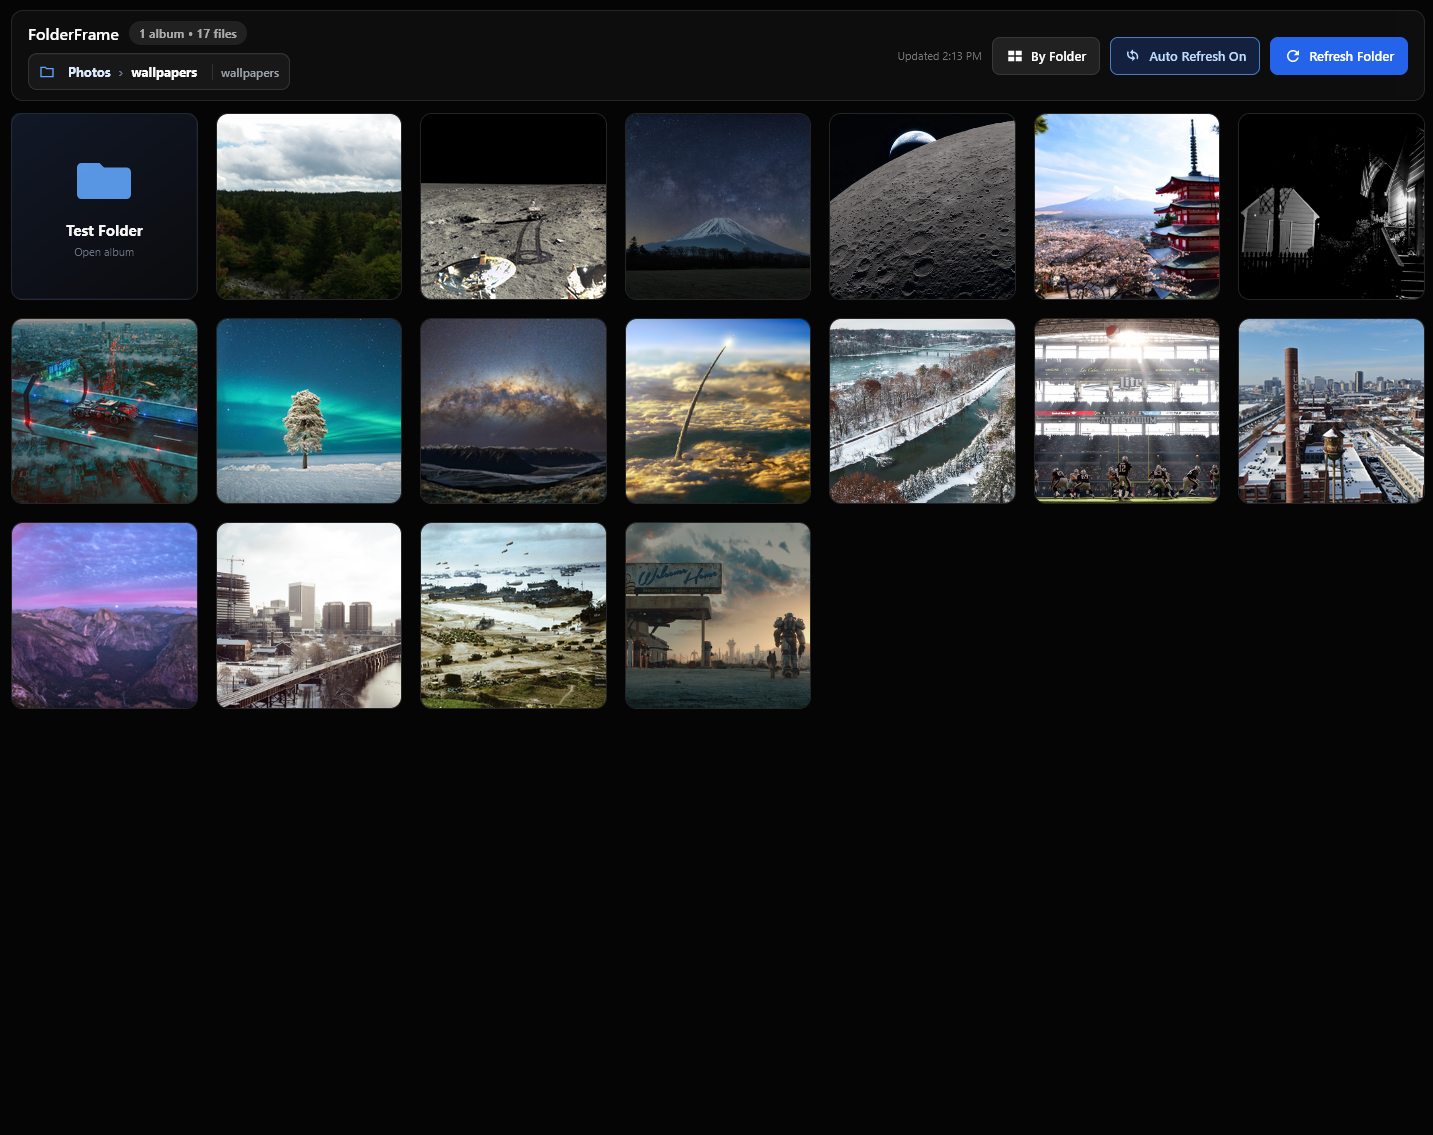
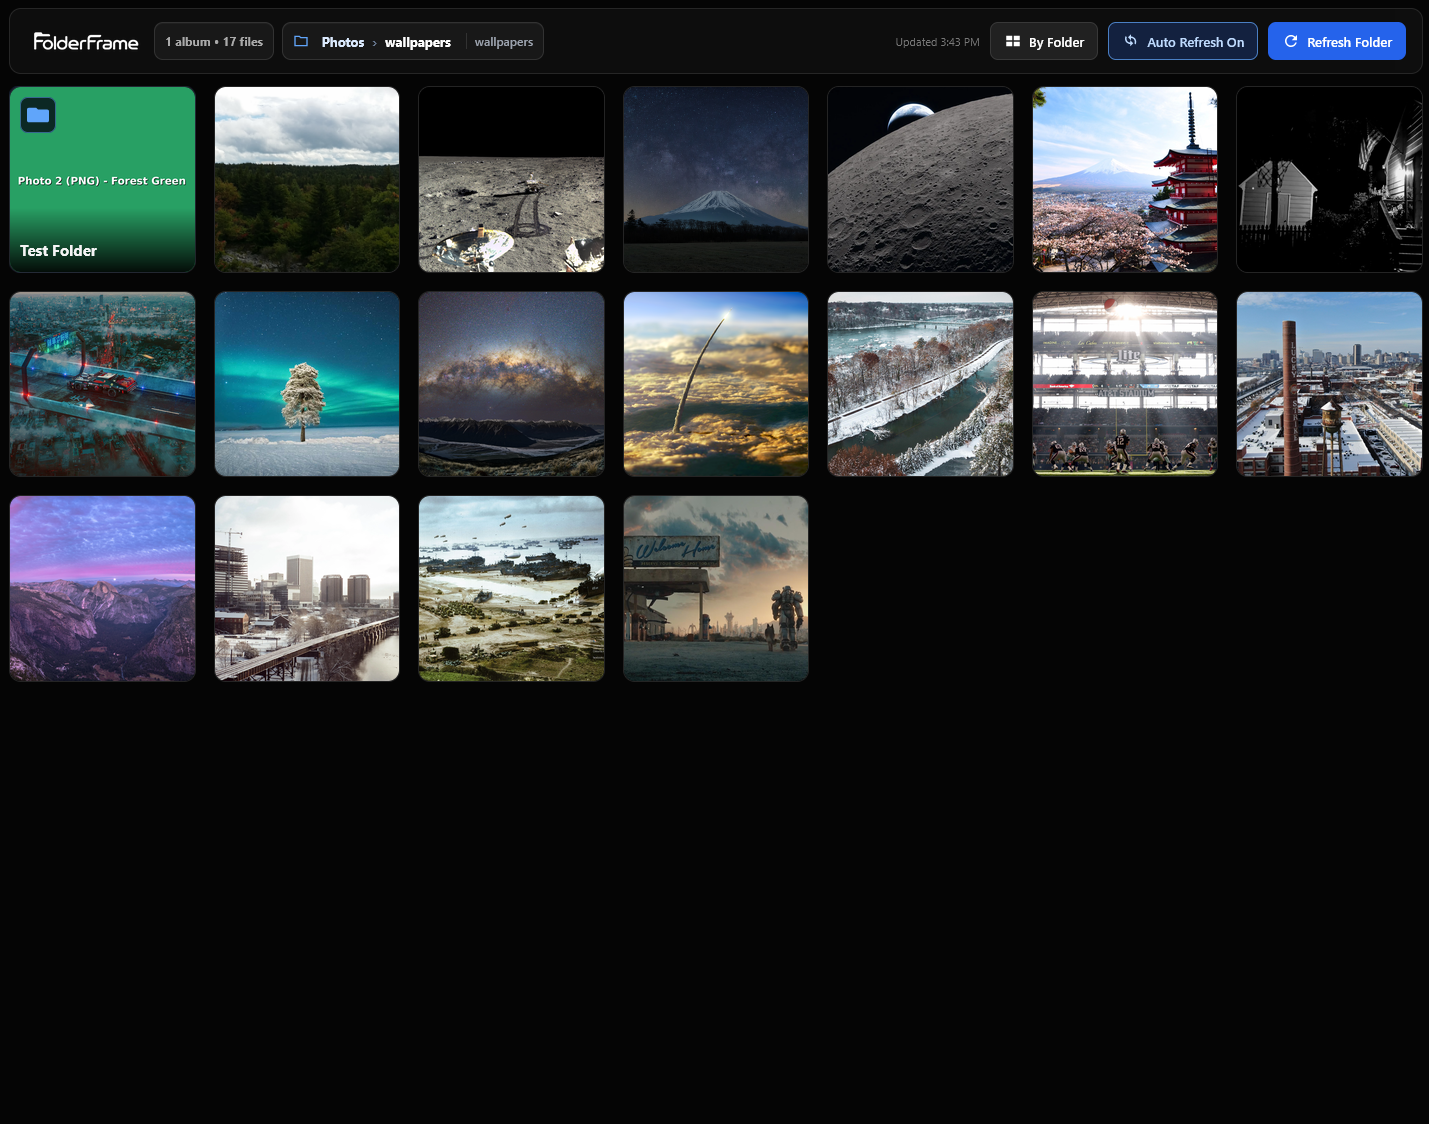
Add album cover previews and compact gallery navigation

diff --git a/app.js b/app.js
@@ -10,6 +10,80 @@ let rememberPreferences = true;
 let controlsEnabled = true;
 let swipeStart = null;
 let gridReturn = null;
+let albumPreviewSession = null;
+
+function stopAlbumPreviews() {
+    if (!albumPreviewSession) return;
+    albumPreviewSession.controller.abort();
+    albumPreviewSession.observer?.disconnect();
+    albumPreviewSession.queue.length = 0;
+    albumPreviewSession = null;
+}
+
+function startAlbumPreviews() {
+    stopAlbumPreviews();
+    const session = { controller: new AbortController(), observer: null, queue: [], active: 0 };
+    albumPreviewSession = session;
+    const pump = () => {
+        if (session.controller.signal.aborted) return;
+        while (session.active < 3 && session.queue.length) {
+            const { item, folder } = session.queue.shift();
+            session.active++;
+            loadAlbumPreview(item, folder, session.controller.signal)
+                .finally(() => { session.active--; pump(); });
+        }
+    };
+    const enqueue = item => { session.queue.push({ item, folder: item.dataset.albumFolder }); pump(); };
+    if ('IntersectionObserver' in window) {
+        session.observer = new IntersectionObserver(entries => {
+            for (const entry of entries) if (entry.isIntersecting) {
+                session.observer.unobserve(entry.target);
+                enqueue(entry.target);
+            }
+        }, { root: gridViewContainer, rootMargin: '300px' });
+    }
+    return item => session.observer ? session.observer.observe(item) : enqueue(item);
+}
+
+async function loadAlbumPreview(item, folder, signal) {
+    const controller = new AbortController();
+    const cancel = () => controller.abort();
+    signal.addEventListener('abort', cancel, { once: true });
+    const timeout = setTimeout(cancel, 12000);
+    let preview;
+    const fallback = () => {
+        if (preview) preview.hidden = true;
+        item.classList.remove('has-album-cover');
+    };
+    try {
+        if (signal.aborted) return;
+        const listing = await scanDirectory(folder, { signal: controller.signal });
+        // scanDirectory already sorts naturally by filename. Do not crawl descendants.
+        const file = listing.filePaths.find(isImageFile);
+        if (!file || signal.aborted || controller.signal.aborted) return;
+        const url = isHeicFile(file) ? await getSpecialImageURL(file) : file;
+        if (signal.aborted || controller.signal.aborted) return;
+        preview = document.createElement('img');
+        preview.className = 'album-cover';
+        preview.alt = '';
+        preview.hidden = true;
+        preview.decoding = 'async';
+        preview.onload = () => {
+            if (signal.aborted) return;
+            preview.hidden = false;
+            item.classList.add('has-album-cover');
+        };
+        preview.onerror = fallback;
+        item.appendChild(preview);
+        preview.src = url;
+    } catch (error) {
+        // An unavailable preview never prevents opening the album.
+        fallback();
+    } finally {
+        clearTimeout(timeout);
+        signal.removeEventListener('abort', cancel);
+    }
+}
 const AUTO_REFRESH_MS = 30000;
 
 let mediaFiles = [];
@@ -280,9 +354,9 @@ async function getSpecialImageURL(filepath) {
     throw new Error('Unknown or corrupt image format');
 }
 
-async function scanDirectory(folder = currentFolder) {
+async function scanDirectory(folder = currentFolder, options = {}) {
     const url = currentDirectoryUrl(folder);
-    const response = await fetch(url, { cache: 'no-store' });
+    const response = await fetch(url, { cache: 'no-store', ...options });
     if (!response.ok) throw new Error(`Could not fetch directory (${response.status})`);
     const html = await response.text();
     const doc = new DOMParser().parseFromString(html, 'text/html');
@@ -465,6 +539,7 @@ async function navigateToFolder(folder) {
 }
 
 function renderGridView() {
+    stopAlbumPreviews();
     const returnPosition = !isGridViewActive && gridReturn &&
         gridReturn.folder === currentFolder && gridReturn.view === galleryViewMode ? gridReturn : null;
     let returnTile = null;
@@ -492,18 +567,23 @@ function renderGridView() {
         : `${albums ? `${albums} album${albums === 1 ? '' : 's'} • ` : ''}${total} file${total === 1 ? '' : 's'}`;
 
     // Album cards first when browsing by folder.
+    const observeAlbum = galleryViewMode === 'folders' ? startAlbumPreviews() : null;
     if (galleryViewMode === 'folders') subfolders.forEach(folder => {
         const item = document.createElement('button');
         item.className = 'grid-item album-card';
         item.type = 'button';
+        const albumFolder = currentFolder ? `${currentFolder}/${folder}` : folder;
+        item.dataset.albumFolder = albumFolder;
+        item.setAttribute('aria-label', `Open album ${folder}`);
         item.innerHTML = `
             <div class="album-icon" aria-hidden="true">
                 <svg viewBox="0 0 24 24" width="54" height="54"><path fill="currentColor" d="M10 4H2c-1.1 0-2 .9-2 2v12c0 1.1.9 2 2 2h20c1.1 0 2-.9 2-2V8c0-1.1-.9-2-2-2h-10l-2-2z"/></svg>
             </div>
             <div class="album-name">${escapeHtml(folder)}</div>
             <div class="album-subtitle">Open album</div>`;
-        item.addEventListener('click', () => navigateToFolder(currentFolder ? `${currentFolder}/${folder}` : folder));
+        item.addEventListener('click', () => navigateToFolder(albumFolder));
         thumbnailGrid.appendChild(item);
+        observeAlbum(item);
     });
 
     const observer = 'IntersectionObserver' in window ? new IntersectionObserver(entries => {
@@ -613,6 +693,7 @@ function renderGridView() {
 function enterFullScreenViewer(index) {
     if (!mediaFiles.length) return;
     const openingViewer = isGridViewActive;
+    if (openingViewer) stopAlbumPreviews();
     if (openingViewer && mediaFiles[index]) gridReturn = {
         folder: currentFolder, view: galleryViewMode,
         file: mediaFiles[index], scrollTop: gridViewContainer.scrollTop || 0
@@ -816,6 +897,7 @@ function handleWheel(e) {
 }
 
 function setupEventListeners() {
+    $('btn-gallery-home').addEventListener('click', () => navigateToFolder(''));
     $('select-source').addEventListener('change', event => {
         const url = new URL(location.href);
         url.searchParams.set('source', event.target.value);

diff --git a/styles.css b/styles.css
@@ -5,6 +5,8 @@
 #config-notice { position: fixed; bottom: 12px; left: 12px; right: 12px; z-index: 110; padding: 10px 14px; border: 1px solid #b7791f; border-radius: 8px; background: #30230b; color: #fff3cd; font-size: 13px; max-height: 25vh; overflow: auto; }
 :root { color-scheme: dark; }
 .brand-logo { display:block; width:120px; height:40px; object-fit:contain; flex:0 0 auto; }
+.brand-home { display:flex; align-items:center; justify-content:center; flex:0 0 auto; min-height:44px; padding:0; border:0; border-radius:8px; background:transparent; cursor:pointer; }
+.brand-home:hover { background:rgba(255,255,255,.06); }
 .hide-filenames #media-title, .hide-filenames .grid-item-caption { display:none; }
 .returned-tile { outline:3px solid #93c5fd; outline-offset:-3px; }
 .loading-note { position:absolute; bottom:15%; left:50%; transform:translateX(-50%); z-index:6; display:flex; align-items:center; gap:10px; padding:10px 14px; border-radius:20px; background:rgba(15,23,42,.9); color:#cbd5e1; font-size:13px; max-width:90%; pointer-events:none; }
@@ -57,10 +59,10 @@ button, select { font: inherit; }
 
 #grid-view-container { position:absolute; inset:0; background:#050505; z-index:5; overflow-y:auto; display:flex; flex-direction:column; }
 #grid-header { position:fixed; top:18px; left:18px; right:18px; z-index:10; display:flex; justify-content:space-between; align-items:center; gap:18px; min-height:62px; padding:10px 16px; }
-.grid-header-main { min-width:0; display:flex; flex-direction:column; gap:8px; }
+.grid-header-main { min-width:0; display:flex; flex-direction:row; flex-wrap:wrap; align-items:center; gap:8px; flex:1; }
 .grid-title-row { overflow:visible; flex-wrap:wrap; }
 
-.gallery-path-bar {
+.gallery-path-bar, #grid-count {
     display:flex;
     align-items:center;
     gap:8px;
@@ -133,6 +135,11 @@ button, select { font: inherit; }
 .album-icon { color:#60a5fa; opacity:.9; margin-bottom:8px; }
 .album-name { max-width:85%; overflow:hidden; text-overflow:ellipsis; white-space:nowrap; font-size:15px; font-weight:700; }
 .album-subtitle { color:#6b7280; font-size:11px; margin-top:4px; }
+.album-card .album-cover { position:absolute; inset:0; width:100%; height:100%; object-fit:cover; z-index:0; }
+.has-album-cover .album-icon { position:absolute; top:10px; left:10px; margin:0; padding:6px; display:flex; background:rgba(5,10,20,.8); border:1px solid rgba(96,165,250,.5); border-radius:8px; z-index:2; opacity:1; }
+.has-album-cover .album-icon svg { width:22px; height:22px; }
+.has-album-cover .album-name { position:absolute; bottom:0; left:0; right:0; max-width:100%; padding:32px 10px 12px; background:linear-gradient(transparent,rgba(0,0,0,.92)); text-align:left; z-index:1; }
+.has-album-cover .album-subtitle { display:none; }
 .heic-thumb { opacity:.15; transition:opacity .25s; }
 .heic-thumb.thumb-loaded { opacity:1; }
 .heic-fallback { position:absolute; inset:0; display:flex; align-items:center; justify-content:center; color:#555; font-size:12px; font-weight:800; letter-spacing:.08em; z-index:-1; }
@@ -232,7 +239,9 @@ button, select { font: inherit; }
     padding-bottom:max(30px, env(safe-area-inset-bottom));
 }
 .grid-header-main { max-width:100%; }
-.gallery-path-bar { min-width:0; }
+.grid-header-main .gallery-path-bar { width:auto; min-width:min(200px, 100%); max-width:100%; flex:0 1 auto; }
+#grid-count { flex:0 0 auto; min-height:38px; }
+.gallery-path-bar { min-width:0; min-height:38px; }
 .breadcrumb { flex-wrap:nowrap; overflow-x:auto; max-width:100%; }
 .crumb { flex-shrink:0; max-width:60vw; overflow:hidden; text-overflow:ellipsis; white-space:nowrap; }
 .btn svg { flex-shrink:0; }

diff --git a/index.html b/index.html
@@ -5,7 +5,7 @@
     <meta name="viewport" content="width=device-width, initial-scale=1.0, viewport-fit=cover">
     <meta name="theme-color" content="#050505">
     <title>FolderFrame</title>
-    <link rel="stylesheet" href="styles.css?v=20260827-logo">
+    <link rel="stylesheet" href="styles.css?v=20260827-album-covers">
     <script src="heic2any.min.js"></script>
 </head>
 <body>
@@ -96,14 +96,10 @@
         <div id="grid-view-container">
             <header id="grid-header" class="overlay">
                 <div class="grid-header-main">
-                    <div class="header-left grid-title-row">
+                    <button id="btn-gallery-home" class="brand-home" type="button" aria-label="Go to top-level gallery" title="Go to top-level gallery">
                         <img class="brand-logo" src="docs/images/folderframe-logo.png" alt="FolderFrame" width="120" height="40">
-                        <span id="grid-count" class="index-text">0 files</span>
-                        <div id="source-control" class="timer-control" hidden>
-                            <label for="select-source">Source:</label>
-                            <select id="select-source" class="custom-select"></select>
-                        </div>
-                    </div>
+                    </button>
+                    <span id="grid-count" class="index-text">0 files</span>
                     <div class="gallery-path-bar" aria-label="Current gallery location">
                         <span class="path-icon" aria-hidden="true">
                             <svg viewBox="0 0 24 24" width="16" height="16">
@@ -112,6 +108,10 @@
                         </span>
                         <div id="breadcrumb" class="breadcrumb" aria-label="Album path"></div>
                         <span id="grid-path" class="folder-path">Sorted by folder</span>
+                    </div>
+                    <div id="source-control" class="timer-control" hidden>
+                        <label for="select-source">Source:</label>
+                        <select id="select-source" class="custom-select"></select>
                     </div>
                 </div>
                 <div class="header-right grid-actions">
@@ -153,6 +153,6 @@
 
     <p id="config-notice" role="status" hidden></p>
     <script src="settings.js?v=20260827-browsing"></script>
-    <script src="app.js?v=20260827-browsing"></script>
+    <script src="app.js?v=20260827-album-covers"></script>
 </body>
 </html>

diff --git a/README.md b/README.md
@@ -23,11 +23,11 @@ Configure media paths and separate index/embed startup defaults in
 
 ### Full media viewer
 
-![FolderFrame full media viewer](docs/images/folderframe-viewer.png)
+![FolderFrame full media viewer with compact slideshow, Fit, Full, and TV Mode controls](docs/images/folderframe-viewer.png)
 
 ### Gallery and album view
 
-![FolderFrame gallery and album view](docs/images/folderframe-gallery.png)
+![FolderFrame grid with an album cover preview, folder badge, and compact directory header](docs/images/folderframe-gallery.png)
 
 ## Overview
 
@@ -36,7 +36,7 @@ contents of configured media directories dynamically from the web server’s
 directory listing, so there is no database, import process, or manually
 maintained media list.
 
-- **Folder-based albums:** thumbnail grid, nested albums, breadcrumbs, and recursive All Pics view.
+- **Folder-based albums:** thumbnail grid, image cover previews with folder badges, nested albums, breadcrumbs, and recursive All Pics view.
 - **Photos and videos:** JPEG, PNG, WebP, GIF, HEIC/HEIF conversion, and MP4/MOV playback (browser codec support applies).
 - **Slideshow and TV mode:** selectable intervals, Shuffle, fullscreen, automatic rescans, and automatic skipping of failed media.
 - **Responsive viewer:** compact mobile controls, pinch zoom, pan, and Fit/Original sizing.
@@ -307,6 +307,22 @@ therefore take longer to populate than JPEG-based galleries.
 GALLERY CONTROLS
 
 GRID / ALBUM VIEW
+
+The compact header places the album/file count beside the directory breadcrumb.
+Click or tap the FolderFrame logo to return to the current source's top-level
+gallery. This works in both the standalone gallery and the embedded grid.
+
+Album tiles preview the first image directly inside that folder, using the
+same natural filename order as the gallery (for example, 2.jpg before 10.jpg).
+A blue folder badge and the album name distinguish covers from individual
+photos. Empty, video-only, nested-folder-only, or failed previews keep the
+folder icon. Covers do not recursively scan descendant albums.
+
+Previews load near the visible grid, with up to three directory lookups/HEIC
+conversions at once. They use original images, not generated thumbnails.
+Use Refresh Folder to reselect covers after changing files inside albums;
+unchanged background refreshes keep existing tiles. There is no cover.jpg
+override yet.
 
 -   The site opens in the thumbnail grid by default; configured autoplay opens the viewer.
 -   Click a photo or video to open the full viewer.

diff --git a/TODO.md b/TODO.md
@@ -22,9 +22,10 @@ manual checks; automated tests do not verify browser layout or codecs.
 - [ ] **Docker packaging and Unraid templates** — Build a Docker image and an Unraid container template for easy deployment. Include configurable media/config mounts, port mapping, a web server with directory listings, and setup/update instructions. Keep ordinary static-server hosting supported.
 
 - [x] **Swipe between photos** — Implemented horizontal swipes for fitted, unzoomed/unpanned photos. Zoomed photos still pan; short/vertical/cancelled gestures do not navigate. Local only; phone verification pending.
-- [ ] **Album cover previews** — Show an image from inside each album instead of only the blue folder icon. Retain a small folder badge so albums remain recognizable, with a folder-icon fallback when no preview is available.
+- [x] **Album cover previews** — Added lazy single-image covers using the first direct image in natural filename order, a blue folder badge, and album-name overlay. Empty/video-only/nested-only albums and preview failures retain the folder icon. Bounded lookups, cancellation, HEIC support, and regression tests included. User supplied updated screenshots for publication.
+- [x] **Compact grid header and logo navigation** — Directory breadcrumb sits beside the matching album/file count box. Clicking the logo returns to the current source root in index and embed. Updated README previews and usage instructions.
 - [x] **Optional filename display in configuration** — Added showFilenames (default true), shared/index/embed support, and showFilenames=0/1 URL overrides. Hides viewer filenames and media captions, retaining album names, accessible labels, and error details. Documented; local only.
 - [x] **Remember grid scroll position** — Restores the originally opened tile and saved scroll position, with a brief static highlight. Adjusts for moved tiles; falls back to scroll position if removed, and resets on folder navigation. Local only; device verification pending.
 
 User tested and approved the swipe, filename visibility, and grid-return update.
-Validation for this update: 36 automated settings/startup/media/gesture tests.
+Validation for this update: 41 automated settings/startup/media/gesture tests.
